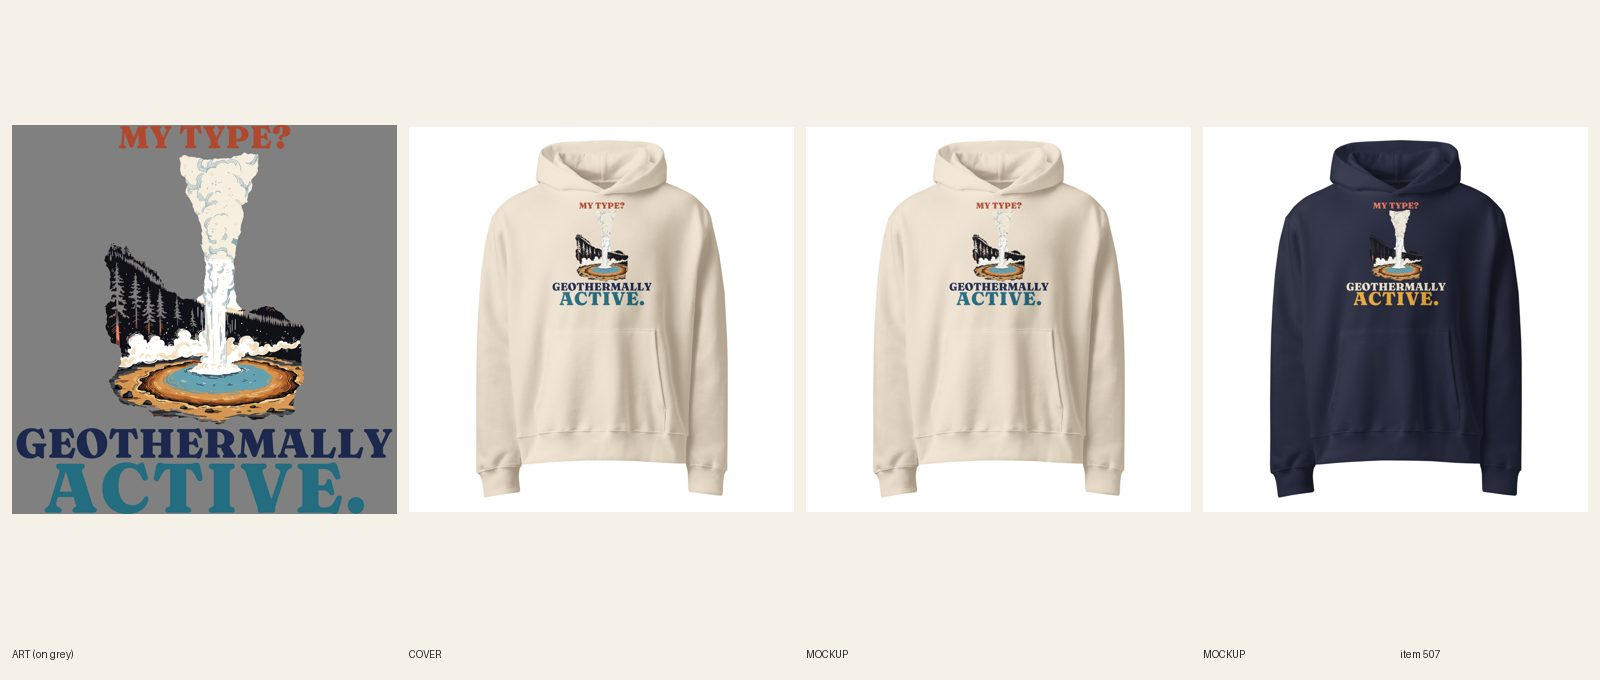
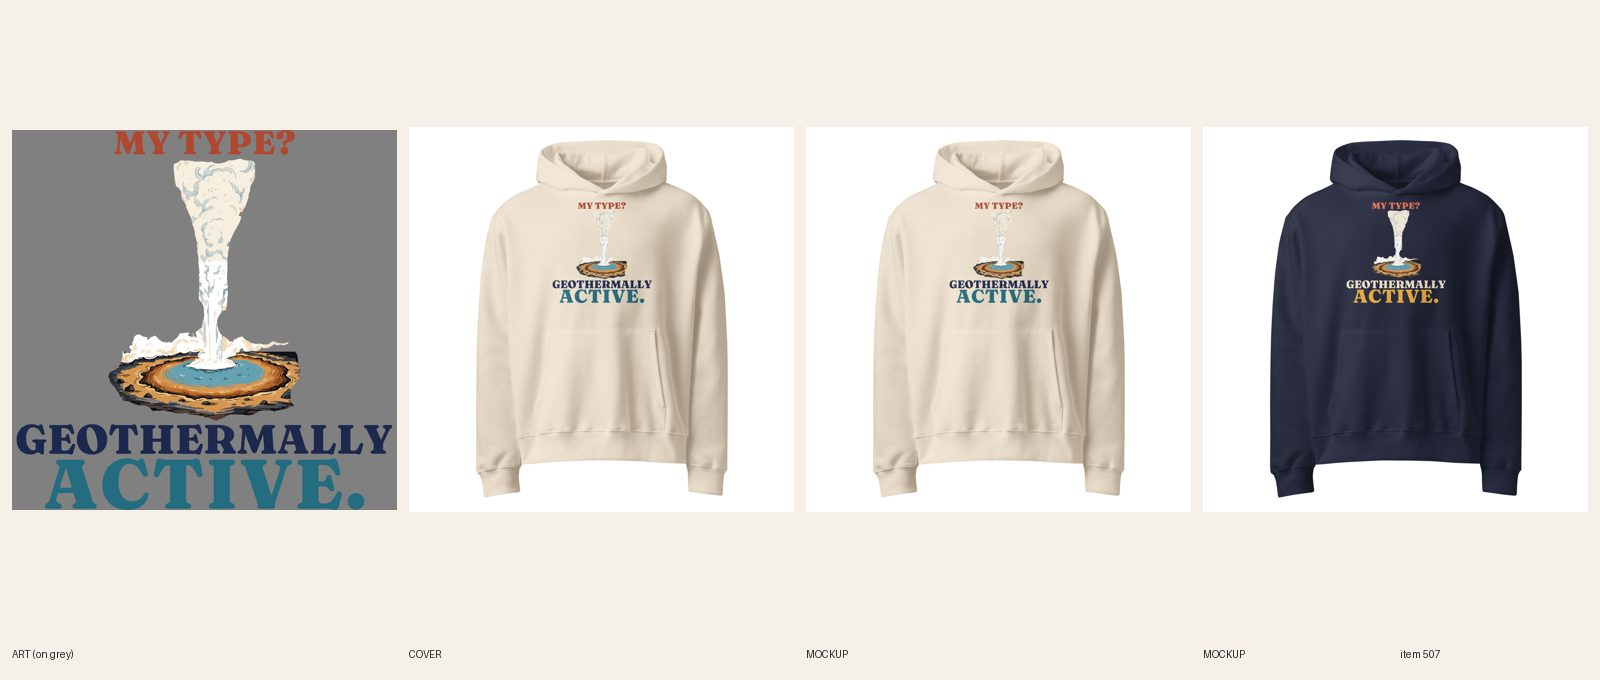
[C] review 507 My Type Geothermally Active (round 4)

diff --git a/designs/c507/make5.py b/designs/c507/make5.py
@@ -1,0 +1,37 @@
+from PIL import Image, ImageDraw, ImageFont
+import sys
+art=Image.open('designs/c507/art_rag5.png').convert('RGBA'); art=art.crop(art.getbbox())
+W=int(sys.argv[1]); AWF=float(sys.argv[2])
+arts=art.resize((int(W*AWF),int(art.height*W*AWF/art.width)),Image.LANCZOS); AH=arts.height
+FD='designs/fonts/'
+def line(text,size,maxw,fill,track=0.0):
+    while True:
+        f=ImageFont.truetype(FD+'Fraunces[SOFT,WONK,opsz,wght].ttf',size); f.set_variation_by_axes([36,900,30,0])
+        adv=[f.getlength(c) for c in text]; t=int(size*track)
+        tot=int(sum(adv)+t*(len(text)-1))
+        if tot<=maxw: break
+        size=int(size*0.98)
+    asc,desc=f.getmetrics()
+    im=Image.new('RGBA',(tot+200,asc+desc+100),(0,0,0,0)); d=ImageDraw.Draw(im); x=100
+    for c,a in zip(text,adv):
+        d.text((x,50),c,font=f,fill=fill); x+=a+t
+    return im.crop(im.getbbox())
+def build(name,c1,c2,c3):
+    h1=line('MY TYPE?',900,int(W*AWF*0.95),c1,0.02)
+    h2=line('GEOTHERMALLY',900,W,c2,0.0)
+    h3=line('ACTIVE.',900,int(W*0.85),c3,0.03)
+    print(name,'scene',arts.size,'headline GEOTHERMALLY px',h2.width,'MY TYPE? px',h1.width,'ACTIVE px',h3.width)
+    g=30
+    H=h1.height+g+AH+g+h2.height+g+h3.height
+    out=Image.new('RGBA',(W,H),(0,0,0,0)); y=0
+    for im in (h1,):
+        out.alpha_composite(im,((W-im.width)//2,y)); y+=im.height+g
+    out.alpha_composite(arts,((W-arts.width)//2,y)); y+=AH+g
+    out.alpha_composite(h2,((W-h2.width)//2,y)); y+=h2.height+g
+    out.alpha_composite(h3,((W-h3.width)//2,y))
+    out.save(f'designs/c507/v5_{name}.png'); print(out.size,'aspect',H/W)
+    for tag,bgc in (('dark',(38,50,88,255)),('light',(206,190,170,255))):
+        bg=Image.new('RGBA',out.size,bgc); bg.alpha_composite(out); bg.convert('RGB').resize((600,int(600*H/W))).save(f'designs/c507/prev5_{name}_{tag}.png')
+CORAL=(232,115,90,255); CREAM=(243,231,207,255); GOLD=(236,170,60,255); NAVY=(28,40,78,255); RUST=(176,72,48,255); TEAL=(36,108,128,255)
+build('print_dark',CORAL,CREAM,GOLD)
+build('print_light',RUST,NAVY,TEAL)

diff --git a/designs/c507/cut5.py b/designs/c507/cut5.py
@@ -1,0 +1,20 @@
+import numpy as np, cv2
+from PIL import Image, ImageDraw
+im = Image.open('designs/c507/art_raw.png').convert('RGBA'); a = np.array(im); H, W = a.shape[:2]
+L = [(570, 20), (585, 250), (640, 420), (720, 600), (780, 800), (795, 1000), (780, 1700)]; R = [(1365, 20), (1340, 250), (1290, 420), (1230, 600), (1120, 800), (1100, 1000), (1095, 1700)]
+m = Image.new('L', (W, H), 0); ImageDraw.Draw(m).polygon(L + R[::-1], fill=255); plume = np.array(m) > 0
+yy = np.arange(H)[:, None] * np.ones((1, W)); xx = np.ones((H, 1)) * np.arange(W)[None, :]
+r, g, b = a[..., 0].astype(int), a[..., 1].astype(int), a[..., 2].astype(int); lum = (r + g + b) / 3
+coral = (r > 190) & (g < 150) & (b < 140)
+sky_zone = yy < 1500
+dark = lum < 90
+volcano = (xx > 1100) & (xx < 1620) & (yy > 1230) & (yy < 1500) & (lum < 130)
+keep = (plume & ~coral & (yy<1560) & ~((yy>1050)&(lum<130))) | ((yy>=1560)&(yy<1750)&(lum>=100)) | (yy>=1750)
+alpha = (a[..., 3] > 40) & keep
+n, lab, st, _ = cv2.connectedComponentsWithStats(alpha.astype(np.uint8), 8)
+for i in range(1, n):
+    if st[i, cv2.CC_STAT_AREA] < 5000: alpha[lab == i] = False
+a[..., 3] = np.where(alpha, a[..., 3], 0)
+Image.fromarray(a).save('designs/c507/art_cut5.png')
+ys, xs = np.where(alpha); print('bbox', xs.min(), ys.min(), xs.max(), ys.max())
+bg = Image.new('RGBA', im.size, (150, 150, 155, 255)); bg.alpha_composite(Image.fromarray(a)); bg.convert('RGB').resize((600, int(600 * H / W))).save('/tmp/claude-0/-home-user-graphicteesco/5c9896f8-2590-5193-872d-a793fd0e4cd8/scratchpad/cut5.png')

diff --git a/docs/pipeline/507-national-park-oversized-hoodie-geothermally-active.md b/docs/pipeline/507-national-park-oversized-hoodie-geothermally-active.md
@@ -1,4 +1,4 @@
-status: REDO
+status: REVIEW
 lane: C
 type: new
 id: 507
@@ -43,3 +43,4 @@ kd: 33
   2. Type is fine (MY TYPE? / GEOTHERMALLY ACTIVE.); keep it, re-check FW 1500+ after the crop.
 - 2026-10-20 08:46 UTC builder [C]: REDO round 3 per the director's 08:45 note (R4.1: the scene still read as a rectangle on Sand/Dust; stop trimming the panel). Cut the scene down to what the brief asked: the geyser plume (its own outline is the top edge), the steam and the pool. New cut script designs/c507/cut.py: the sky, sunburst rays and cream sky panel are removed; the plume is kept inside a hand-traced outline (coral ray pixels dropped), the pine hillside is kept as dark silhouettes only (no sky behind), the volcano cone is kept, the steam clouds and the pool stay whole; specks under 5000 px dropped. The remaining outer edge is then worn with designs/rough2.py (new: measures distance to the outside only; depth 90) so the pines, plume top and pool rim end in uneven edges. Nothing reads as a card at phone size on either mockup. First two tries printed too tall for the oversized pouch area (ACTIVE. clipped), so the scene is 52% of the print width (1560 px) and the print is 3000 x 3028, FW 1500 TOP 0. Type unchanged (MY TYPE? 1336 px / GEOTHERMALLY 2927 px / ACTIVE. 2489 px; both punch lines far wider than the setup line). Light-file unchanged: Dust file 1090262138, Navy file 1090262227 (docs/print-files/507-v4-geo-dust.png / -navy.png), 12/12 relinked (verified on the API). Copy: removed the sunrise-rays sentence, now says a dark pine ridge and worn edges. fal $0.
 - 2026-10-20 09:20 UTC director: REDO from docs/review/507.jpg. 1) R4.1 (round 4): the plume and pool are right now, but the dark pine forest band behind the geyser is a solid dark patch with a straight top and sides; on Dust it reads as a black block behind the art ('no dark patch'). Paint the forest band out completely (no fal; erase in print-prep) so only the plume, steam and the colored pool remain, with the pool's own ragged edge as the bottom. 2) Reset bar: MY TYPE? is about 25% of the art width in thin ink, so the setup is missing on the mockup. Set MY TYPE? heavy at 90%+ of the art width above the plume, punch below at least as wide. If this round still shows a block, the item gets PARKED for Sam.
+- 2026-10-20 11:50 UTC builder [C]: REDO round 4 per the director's 09:20 note. R4.1: forest band painted out completely (designs/c507/cut5.py): only plume, steam and the colored pool remain, pool's own worn edge (rough2 depth 40) at the bottom; no pines, no cone. Reset bar: MY TYPE? Fraunces Black at 94% of the art width (1406 of 1500 px) above the plume; punches GEOTHERMALLY 2927 px / ACTIVE. 2489 px, both wider than the art (headline MY TYPE? 1406 px / punch 2927 px = 208%). Light file Dust 1090314133 (rust/navy/teal, no cream fills) / dark Navy 1090314166, FW 1500 TOP 0, 12/12 relinked and verified on the API. Dust and Navy fronts replaced in place; story sentence updated (no pine ridge or cone). Phone-size read ok. fal $0.

diff --git a/docs/intake-log.md b/docs/intake-log.md
@@ -1,4 +1,5 @@
 RUNNING lane C since 2026-10-20 11:05 UTC
+2026-10-20 11:50 UTC — [C] Builder run: redid #507 My Type Geothermally Active hoodie round 4 (forest band removed, MY TYPE? widened). REVIEW. fal $0.
 RUNNING lane E since 2026-10-20 10:50 UTC
 2026-10-20 11:04 UTC — [A] Builder run: redid #447 Women's Alpaca hoodie again (headline above, two-line punch below, type 41% of the print, new title). REVIEW. fal $0.
 2026-10-20 10:49 UTC — [H] Helper run: Telegram inbox empty (getUpdates 0 updates). Audit 610 live products: 0 errors, 37 warnings left alone; committed docs/cohesion-audit.md and .json (npm ci first). Category check: 0 products without a Shopify category (filter empty, sample of 5 all aa-1-13-8). Announcement bar already on holiday line, 0 price errors. Site check: mens-electrician-its-probably-the-breaker-graphic-tee, mens-plumber-not-looking-at-your-sink-graphic-tee, mens-fishing-fisher-of-men-half-zip all 200 (welder hoodie skipped, under 20 min). Stuck-work: RUNNING lane A since 02:28 UTC is over 2h old, Telegram alert sent (one). Nothing BUILDING over 3h that lacks a lane commit. Daily summary not due (before 12:00 UTC). Lock released.
